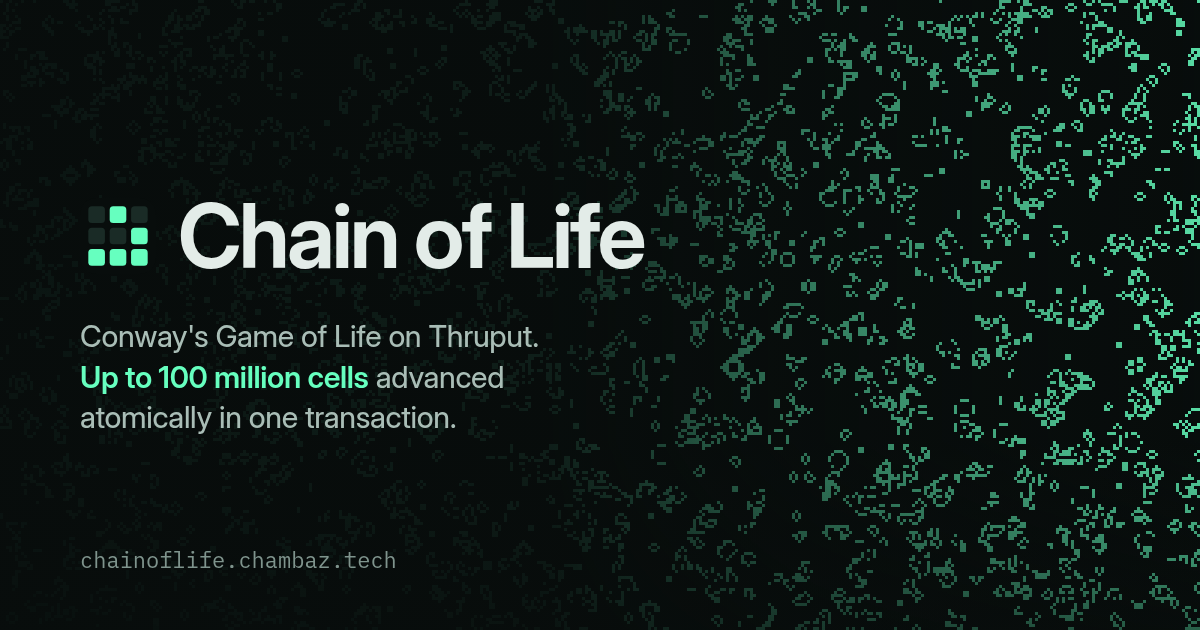
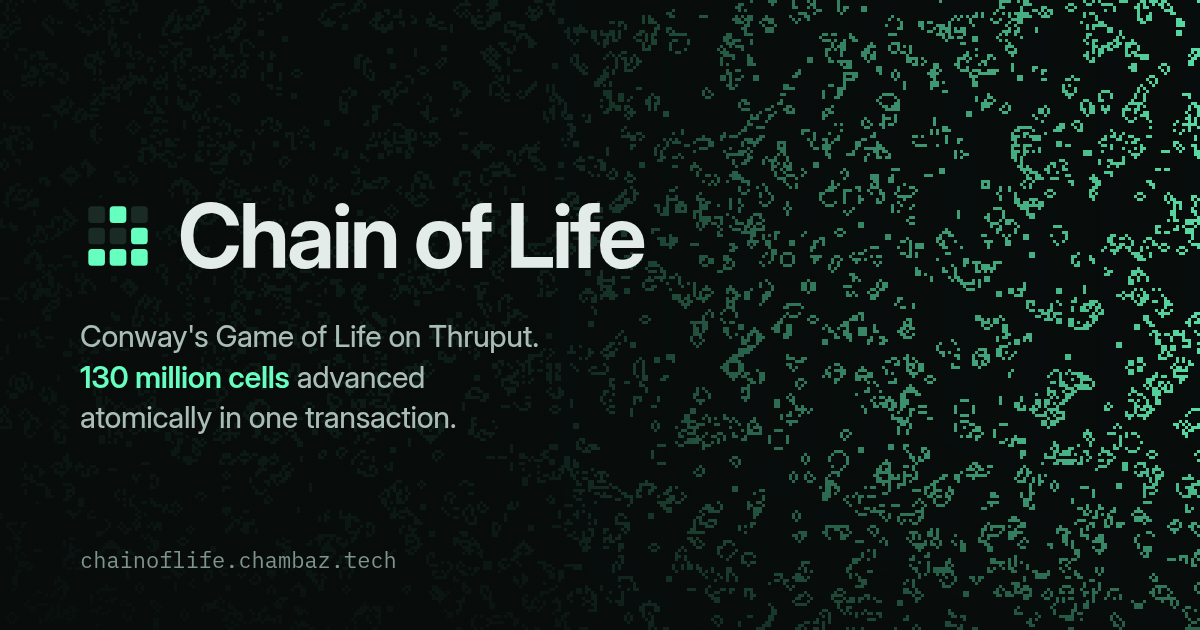
Limit worlds to 11,400 cells per side
Futurenet still limits a transaction's storage output to 16 MiB: an 11,400 x 11,400 world (16,245,000 bytes per advance) commits there, and 11,500 is dropped without a receipt. The Futurenet preset deploys the 11,400 world. Reference vectors come from an independent numpy/hashlib reference, which matches the 11,400 world on Futurenet at generations 0 to 2. The tagline and social image say 130 million cells.

Changed region(s): [[0.0617, 0.573, 0.4317, 0.6333]]

diff --git a/web/index.html b/web/index.html
@@ -10,7 +10,7 @@
     <title>Chain of Life</title>
     <meta
       name="description"
-      content="Conway's Game of Life on Thruput. Up to 100 million cells advanced atomically in one transaction."
+      content="Conway's Game of Life on Thruput. 130 million cells advanced atomically in one transaction."
     />
     <link rel="icon" href="/favicon.svg" type="image/svg+xml" />
     <link rel="apple-touch-icon" href="/apple-touch-icon.png" />
@@ -19,7 +19,7 @@
     <meta property="og:title" content="Chain of Life" />
     <meta
       property="og:description"
-      content="Conway's Game of Life on Thruput. Up to 100 million cells advanced atomically in one transaction."
+      content="Conway's Game of Life on Thruput. 130 million cells advanced atomically in one transaction."
     />
     <meta
       property="og:image"

diff --git a/scripts/deploy.ts b/scripts/deploy.ts
@@ -33,7 +33,7 @@ import {
 const options = deploymentConfig(process.argv.slice(2));
 if (options.help) {
   console.log(
-    "Deploy Chain of Life: --preset local|futurenet --rpc-url URL --mode configurable|fixed --size 10000 (local) or 17400 (futurenet) --seed 0 --output FILE --state-dir DIR --runtime-manifest FILE --resume\nFlags override preset defaults. The node must already be running. Use a separate state directory for each deployment.",
+    "Deploy Chain of Life: --preset local|futurenet --rpc-url URL --mode configurable|fixed --size 10000 (local) or 11400 (futurenet) --seed 0 --output FILE --state-dir DIR --runtime-manifest FILE --resume\nFlags override preset defaults. The node must already be running. Use a separate state directory for each deployment.",
   );
   process.exit(0);
 }

diff --git a/scripts/world.ts b/scripts/world.ts
@@ -44,17 +44,17 @@ export const referenceWorlds = [
     },
   },
   {
-    size: 17_400,
+    size: 11_400,
     seed: "0",
     generationZero: {
-      population: 151_381_558n,
+      population: 64_978_875n,
       stateDigest:
[2 lines of base64/hex data omitted]
     },
     generationOne: {
-      population: 82_801_343n,
+      population: 35_536_795n,
       stateDigest:
[2 lines of base64/hex data omitted]
     },
   },
 ] as const;

diff --git a/web/src/deployment-config.test.ts b/web/src/deployment-config.test.ts
@@ -15,7 +15,7 @@ describe("deployment presets", () => {
     expect(remote).toMatchObject({
       preset: "futurenet",
       mode: "fixed",
-      size: 17_400,
+      size: 11_400,
       manifest: null,
       gasLimit: 1_000_000_000n,
       targetGasLimit: 999_000_000n,
@@ -48,7 +48,7 @@ describe("deployment presets", () => {
     });
   });
   test("accepts the largest world", () => {
-    expect(deploymentConfig(["--size", "17400"], {}).size).toBe(17_400);
+    expect(deploymentConfig(["--size", "11400"], {}).size).toBe(11_400);
   });
   test.each([
     ["--preset", "devnet"],

diff --git a/web/src/renderer/pyramid.test.ts b/web/src/renderer/pyramid.test.ts
@@ -15,9 +15,8 @@ describe("tile pyramid", () => {
     expect(Array.from({ length: 7 }, (_, z) => tileCount(z, 10_000))).toEqual([
       1, 2, 3, 5, 10, 20, 40,
     ]);
-    // The largest world needs two tiles per axis even at zoom 0.
-    expect(Array.from({ length: 7 }, (_, z) => tileCount(z, 17_400))).toEqual([
-      2, 3, 5, 9, 17, 34, 68,
+    expect(Array.from({ length: 7 }, (_, z) => tileCount(z, 11_400))).toEqual([
+      1, 2, 3, 6, 12, 23, 45,
     ]);
     expect(Array.from({ length: 7 }, (_, z) => tileSpan(z))).toEqual([
       16384, 8192, 4096, 2048, 1024, 512, 256,

diff --git a/web/src/indexer/schema.ts b/web/src/indexer/schema.ts
@@ -1,7 +1,7 @@
 import { DECIMAL, HEX32 } from "@/lib/validation";
 
 /** The largest supported world width and height. */
-export const MAX_WORLD_SIZE = 17_400;
+export const MAX_WORLD_SIZE = 11_400;
 export const TILE_SIZE = 256;
 /** Version of the indexer JSON documents. */
 export const SCHEMA_VERSION = 2;

diff --git a/scripts/deployment-config.ts b/scripts/deployment-config.ts
@@ -9,7 +9,7 @@ const GAS_LIMIT = 1_000_000_000n;
 const TARGET_GAS_LIMIT = 999_000_000n;
 
 /** The largest world side the contract accepts. */
-export const MAX_WORLD_SIZE = 17_400;
+export const MAX_WORLD_SIZE = 11_400;
 
 export function deploymentConfig(
   args: string[],

diff --git a/core/tests/core.rs b/core/tests/core.rs
@@ -205,10 +205,10 @@ fn full_scale_generation_one_vector() {
 }
 
 #[test]
-#[ignore = "full 302-million-cell reference pass; run in release mode"]
+#[ignore = "full 130-million-cell reference pass; run in release mode"]
 fn largest_world_generation_vectors() {
-    // The largest world: 17,400 cells per side.
-    const SIZE: usize = 17_400;
+    // The largest world: 11,400 cells per side.
+    const SIZE: usize = 11_400;
     const ROW: usize = SIZE.div_ceil(8);
     let mut rng = SplitMix64::new(0);
     let mut world = vec![0u8; SIZE * ROW];
@@ -252,12 +252,12 @@ fn largest_world_generation_vectors() {
         (zero, one),
         (
             (
-                151_381_558,
[1 lines of base64/hex data omitted]
+                64_978_875,
[1 lines of base64/hex data omitted]
             ),
             (
-                82_801_343,
[1 lines of base64/hex data omitted]
+                35_536_795,
[1 lines of base64/hex data omitted]
             ),
         )
     );

diff --git a/contract/src/contract.rs b/contract/src/contract.rs
@@ -5,10 +5,10 @@ use game_of_life_core::prng::SplitMix64;
 use thruput_sdk::storage::{Bytestring, Flaggable, Map, Value};
 use thruput_sdk::*;
 
-/// The largest side whose advance fits the one-billion-gas transaction cap.
-/// Each advance writes the whole world, `MAX_SIZE * ROW_BYTES` = 37.8 MB at
-/// this size, so the network must allow that much output per transaction.
-const MAX_SIZE: u32 = 17_400;
+/// The largest side whose advance fits a transaction's 16 MiB storage output
+/// limit. Each advance writes the whole world, `MAX_SIZE * ROW_BYTES` =
+/// 16,245,000 bytes at this size.
+const MAX_SIZE: u32 = 11_400;
 const ROW_BYTES: usize = (MAX_SIZE as usize).div_ceil(8);
 /// Most bytes of a row that `get_chunk` returns: a view's return value is
 /// limited to 1,024 bytes.

diff --git a/indexer/tests/snapshot.rs b/indexer/tests/snapshot.rs
@@ -213,13 +213,13 @@ fn metadata_rejects_unsupported_sizes_and_derives_layout() {
     small.size = 100;
     assert_eq!(small.chunks_per_row(), 1);
     assert_eq!(small.chunk_count(), 100);
-    // The largest world: 2,175-byte rows, read in three parts.
+    // The largest world: 1,425-byte rows, read in two parts.
     let mut largest = metadata;
-    largest.size = 17_400;
+    largest.size = 11_400;
     assert!(largest.validate().is_ok());
-    assert_eq!(largest.row_bytes(), 2_175);
-    assert_eq!(largest.chunks_per_row(), 3);
-    assert_eq!(largest.chunk_count(), 52_200);
+    assert_eq!(largest.row_bytes(), 1_425);
+    assert_eq!(largest.chunks_per_row(), 2);
+    assert_eq!(largest.chunk_count(), 22_800);
 }
 
 #[test]

diff --git a/indexer/src/snapshot.rs b/indexer/src/snapshot.rs
@@ -34,7 +34,7 @@ impl SnapshotMetadata {
         if !(100..=MAX_WORLD_WIDTH).contains(&self.size) || !self.size.is_multiple_of(100) {
             return Err(Error::Schema {
                 field: "size",
-                reason: "expected 100 to 17400 in steps of 100",
+                reason: "expected 100 to 11400 in steps of 100",
             });
         }
         Ok(())

diff --git a/indexer/src/lib.rs b/indexer/src/lib.rs
@@ -17,7 +17,7 @@ pub use snapshot::{
 };
 
 /// Largest supported square world side, in cells.
-pub const MAX_WORLD_WIDTH: u32 = 17_400;
+pub const MAX_WORLD_WIDTH: u32 = 11_400;
 /// Most bytes of a row in one `get_chunk` response. The contract stores and
 /// digests the world in larger chunks; see `game_of_life_core::digest`.
 pub const CHUNK_BYTES: usize = 1_000;
